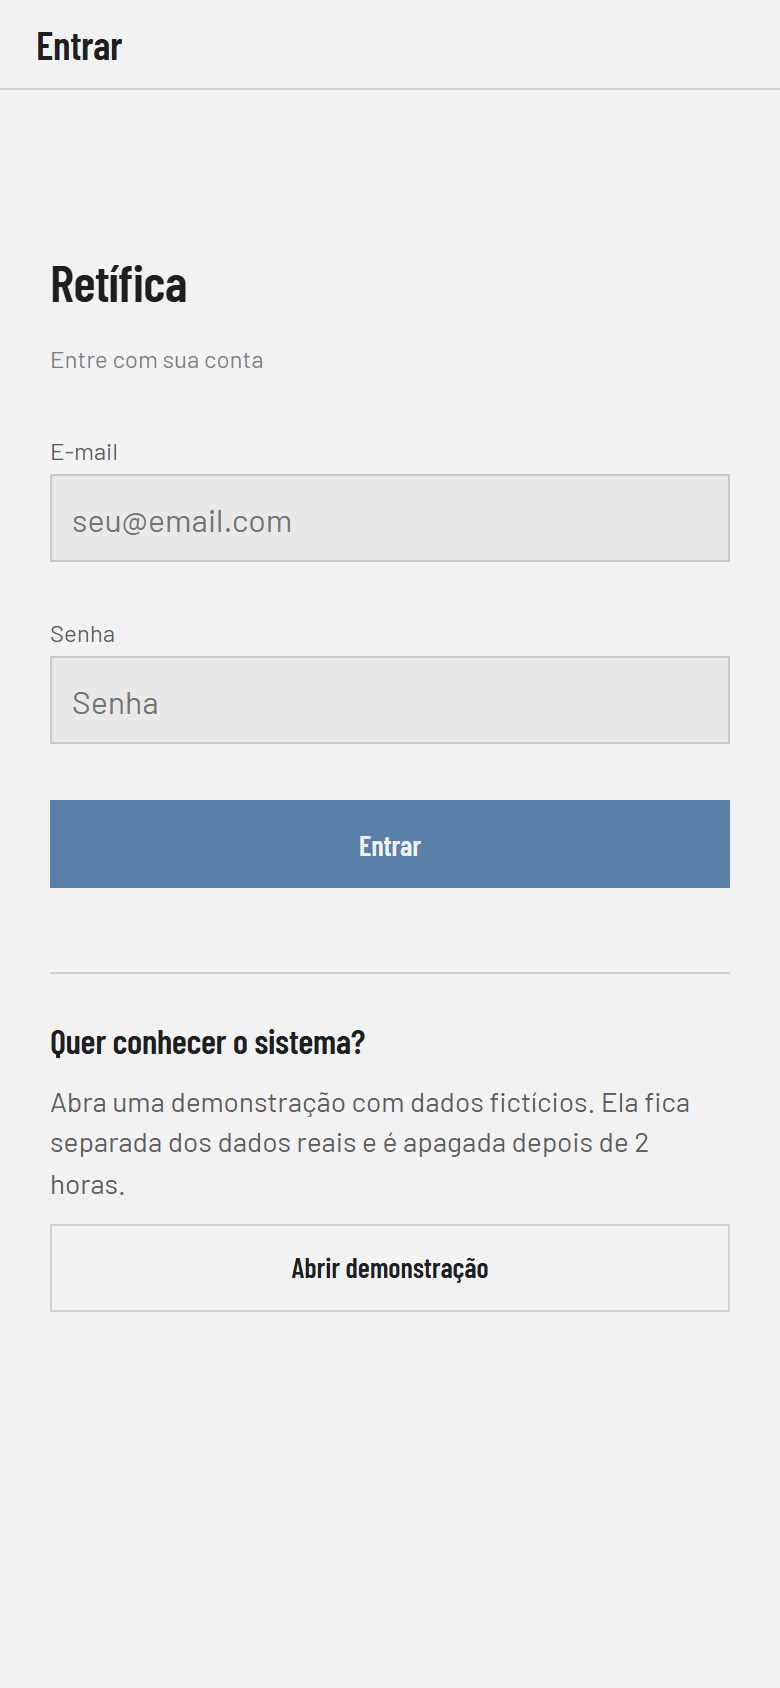
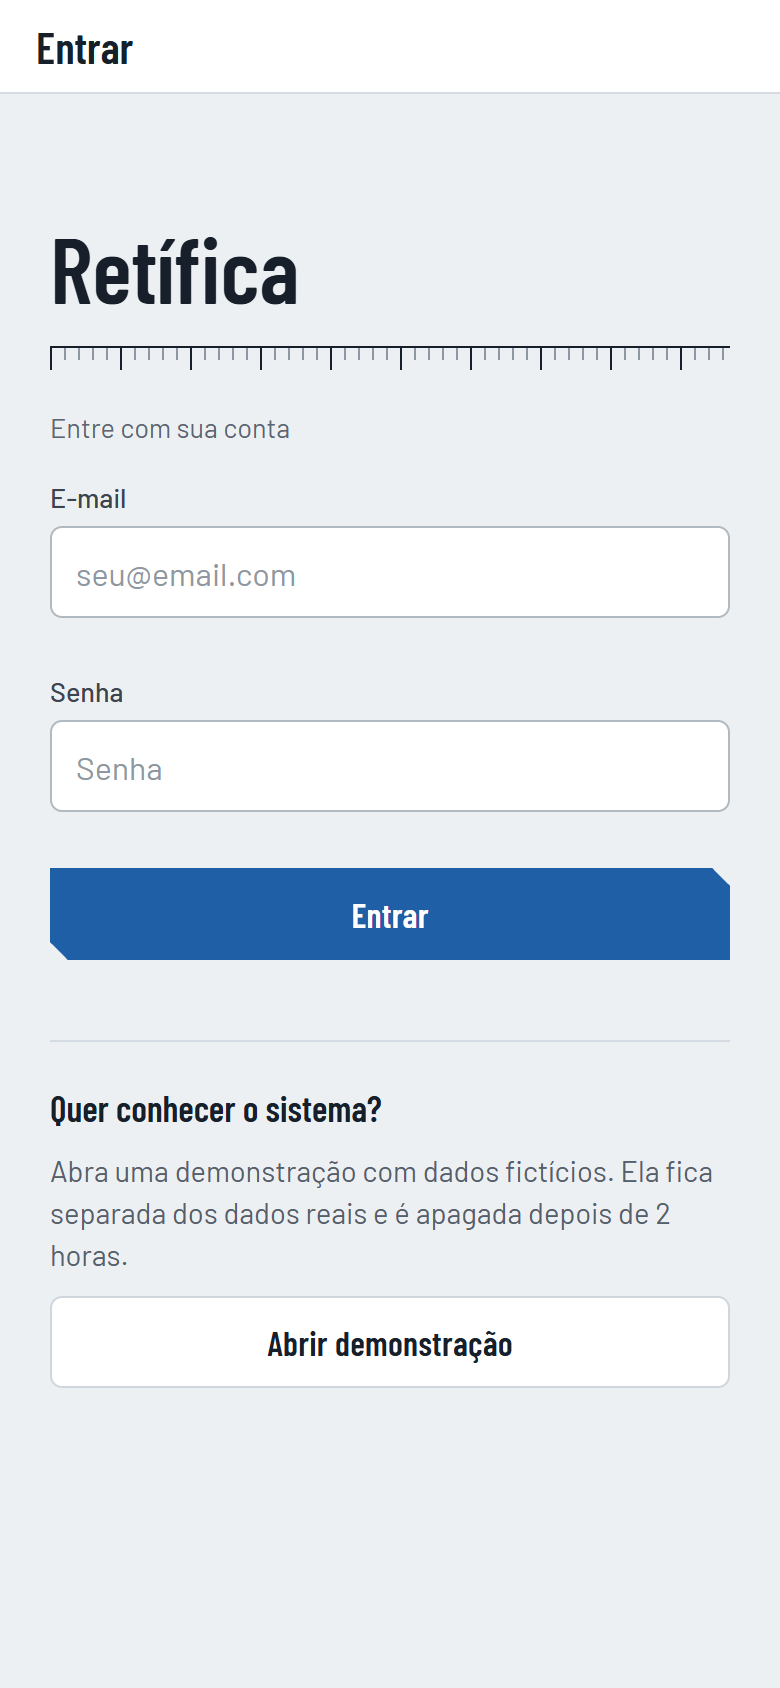
README e docs com o visual novo: capturas refeitas na demonstracao e descricao do tema bancada

diff --git a/README.md b/README.md
@@ -31,7 +31,7 @@ Dá para criar e editar pedidos, gerar o orçamento em PDF, ver o dashboard e mu
 | **Ditado com IA: a dúvida** | **Ditado com IA: a conferência** | **Dashboard do mês** |
 | <img src="docs/imagens/ditado-pergunta.png" width="230" alt="A IA pergunta qual cliente e qual a data de entrega"> | <img src="docs/imagens/ditado-conferencia.png" width="230" alt="Conferência do que a IA entendeu antes de preencher o formulário"> | <img src="docs/imagens/dashboard.png" width="230" alt="Dashboard com total do mês e pedidos encerrados"> |
 
-<sub>Capturas feitas com dados fictícios, num ambiente local.</sub>
+<sub>Capturas feitas na demonstração, com dados fictícios. Como o ditado fica desligado nela, as duas telas do ditado usam respostas simuladas da IA.</sub>
 
 - **Pedidos**: cliente, componentes do motor, serviços e peças por categoria, desconto, prazo e situação. O formulário guarda rascunho no aparelho e avisa antes de perder dados.
 - **Orçamento em PDF** gerado no servidor, compartilhado direto do celular (Web Share API). A foto do componente entra como última página do próprio PDF, montada no aparelho.

diff --git a/docs/PWA.md b/docs/PWA.md
@@ -15,7 +15,7 @@ backend/src/main/resources/static/     build do Angular (gerado, ignorado pelo g
 └── .well-known/assetlinks.json        único arquivo versionado ali: liga o APK ao domínio
 ```
 
-O visual é o "blueprint" do design compartilhado pelo dono (fontes Barlow e Barlow Condensed, tema claro, cantos em L nos cards). O ícone do PWA/APK é fixo, da plataforma, e não muda por empresa.
+O visual é o tema "bancada" (desde 2026-11-12, em `frontend/src/base.css`): fundo cinza frio com superfícies brancas, azul de traçagem como cor de ação, botões principais com cantos chanfrados, painel escuro com régua graduada nos contadores do Início e do Dashboard, e uma cor por situação do pedido (etiqueta e borda da ficha). As fontes continuam Barlow e Barlow Condensed. Substituiu o "blueprint" (cinza, cantos em L nos cards). O ícone do PWA/APK é fixo, da plataforma, e não muda por empresa.
 
 ## Navegação
 

diff --git a/frontend/README.md b/frontend/README.md
@@ -1,7 +1,7 @@
 # Front em Angular
 
 O PWA da retífica em Angular 22 (standalone, zoneless, rotas por hash), servido pelo Spring Boot **na raiz**.
-Substituiu o `app.js` em JavaScript puro em 2026-11-12 (fase 6), com o mesmo visual (`src/base.css` é o antigo `style.css`),
+Substituiu o `app.js` em JavaScript puro em 2026-11-12 (fase 6), na época com o mesmo visual; desde então `src/base.css` ganhou o tema "bancada" (ver [PWA.md](../docs/PWA.md)),
 as mesmas rotas e as mesmas chaves do `localStorage`. Estado anterior à troca: tag `antes-fase6`.
 
 ## Rodar em desenvolvimento
